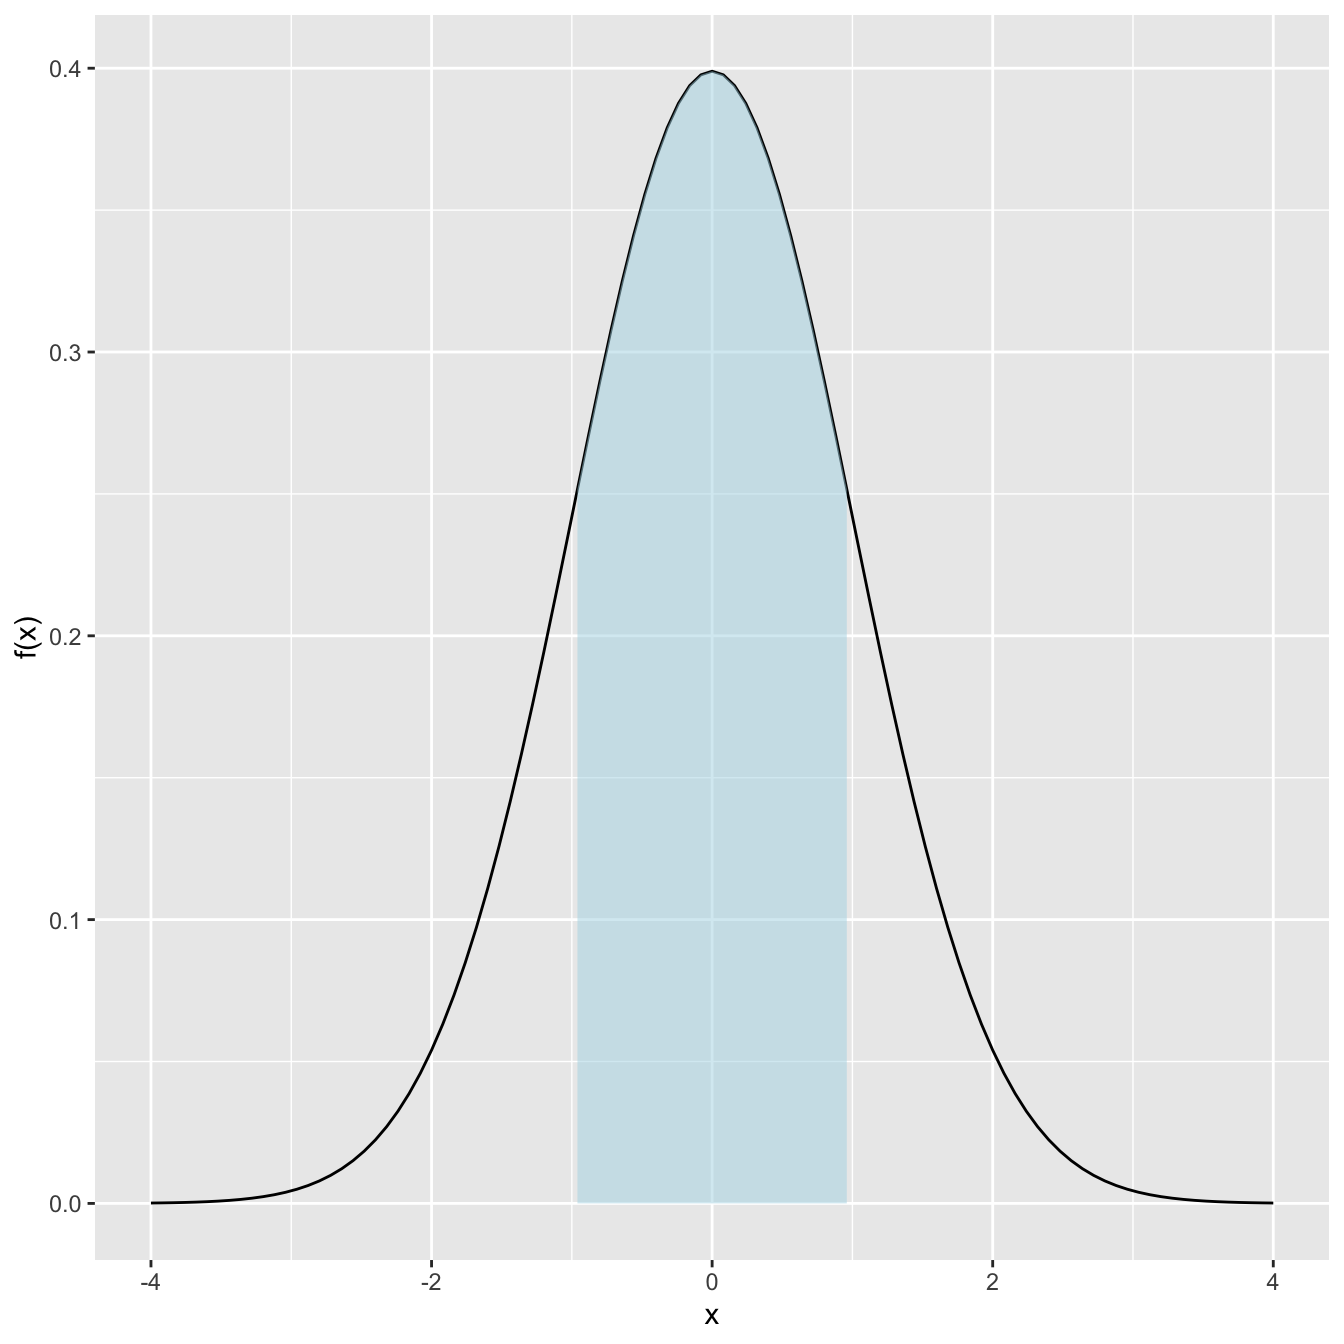
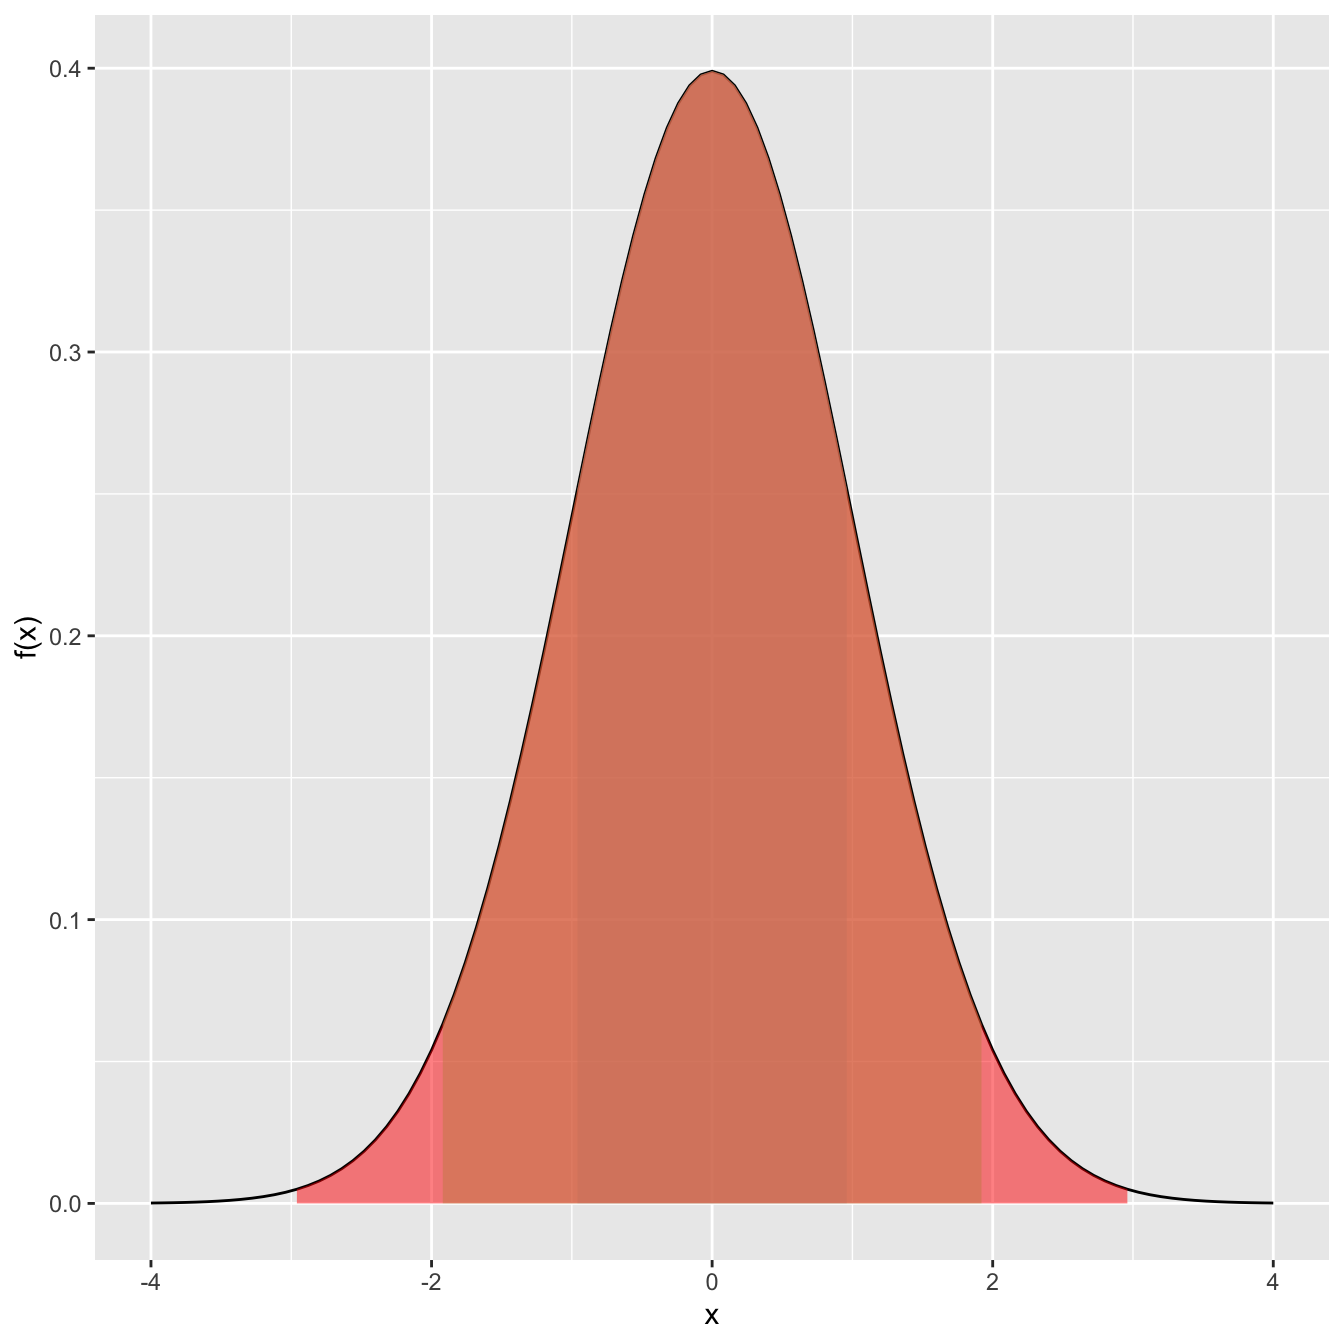
update

Changed region(s): [[0.2188, 0.0312, 0.8438, 0.9062]]

diff --git a/_stat211/chapter3normal.html b/_stat211/chapter3normal.html
@@ -226,7 +226,6 @@
 <li><a href="#/transforming-normals-inches-to-cm" id="/toc-transforming-normals-inches-to-cm">Transforming Normals: inches to cm</a></li>
 <li><a href="#/the-standard-normal-distribution" id="/toc-the-standard-normal-distribution">The Standard Normal Distribution</a></li>
 <li><a href="#/z-scores-comparing-values" id="/toc-z-scores-comparing-values">Z-scores: Comparing values</a></li>
-<li><a href="#/empirical-rule" id="/toc-empirical-rule">Empirical rule</a></li>
 <li><a href="#/well-be-back" id="/toc-well-be-back">We’ll be back…</a></li>
 </ul>
 <div class="quarto-alternate-formats"><h2>Other Formats</h2><ul><li><a href="chapter3normal.html"><i class="bi bi-file-slides"></i>RevealJS</a></li></ul></div></nav>
@@ -572,10 +571,8 @@ $P(Z \leq 1.3333)$ is ..
 <section id="z-scores-comparing-values" class="slide level2 scrollable">
 <h2>Z-scores: Comparing values</h2>
 <p>Sometimes we will be tasked with comparing values from two different distributions</p>
-<p><span class="smallCap">Goal:</span> Which value is more <span class="emphasis">extreme</span></p>
-</section>
-<section id="empirical-rule" class="slide level2 scrollable">
-<h2>Empirical rule</h2>
+<p><span class="smallCap">Goal:</span> Which value is more <span class="emphasis">extreme</span>?</p>
+<p><span class="example">Example:</span> ## Empirical rule {.scrollable}</p>
 <p>Values from normal distributions contain predictable amounts of probability</p>
 <p><span class="subscript">(This is sometimes known as the <span class="definition">empirical rule</span>)</span></p>
 <div class="columns">
@@ -590,7 +587,7 @@ $P(Z \leq 1.3333)$ is ..
 </div>
 </div>
 <ul>
-<li><span class="math inline">\(P( |X - \mu| \leq \sigma) = 0.683\)</span></li>
+<li><span class="lightbluetext"><span class="math inline">\(P( |X - \mu| \leq \sigma) = 0.683\)</span></span></li>
 <li><span class="math inline">\(P( |X - \mu| \leq 2\sigma) = 0.954\)</span></li>
 <li><span class="math inline">\(P( |X - \mu| \leq 3\sigma) = 0.997\)</span></li>
 </ul>

diff --git a/_stat211/styles.css b/_stat211/styles.css
@@ -7,3 +7,15 @@
 .border-thick {
   border-width: 3px;
 }
+
+.redtext {
+  color: red;
+}
+
+.lightbluetext {
+  color: lightblue;
+}
+
+.lightgreentext {
+  color: lightgreen;
+}
